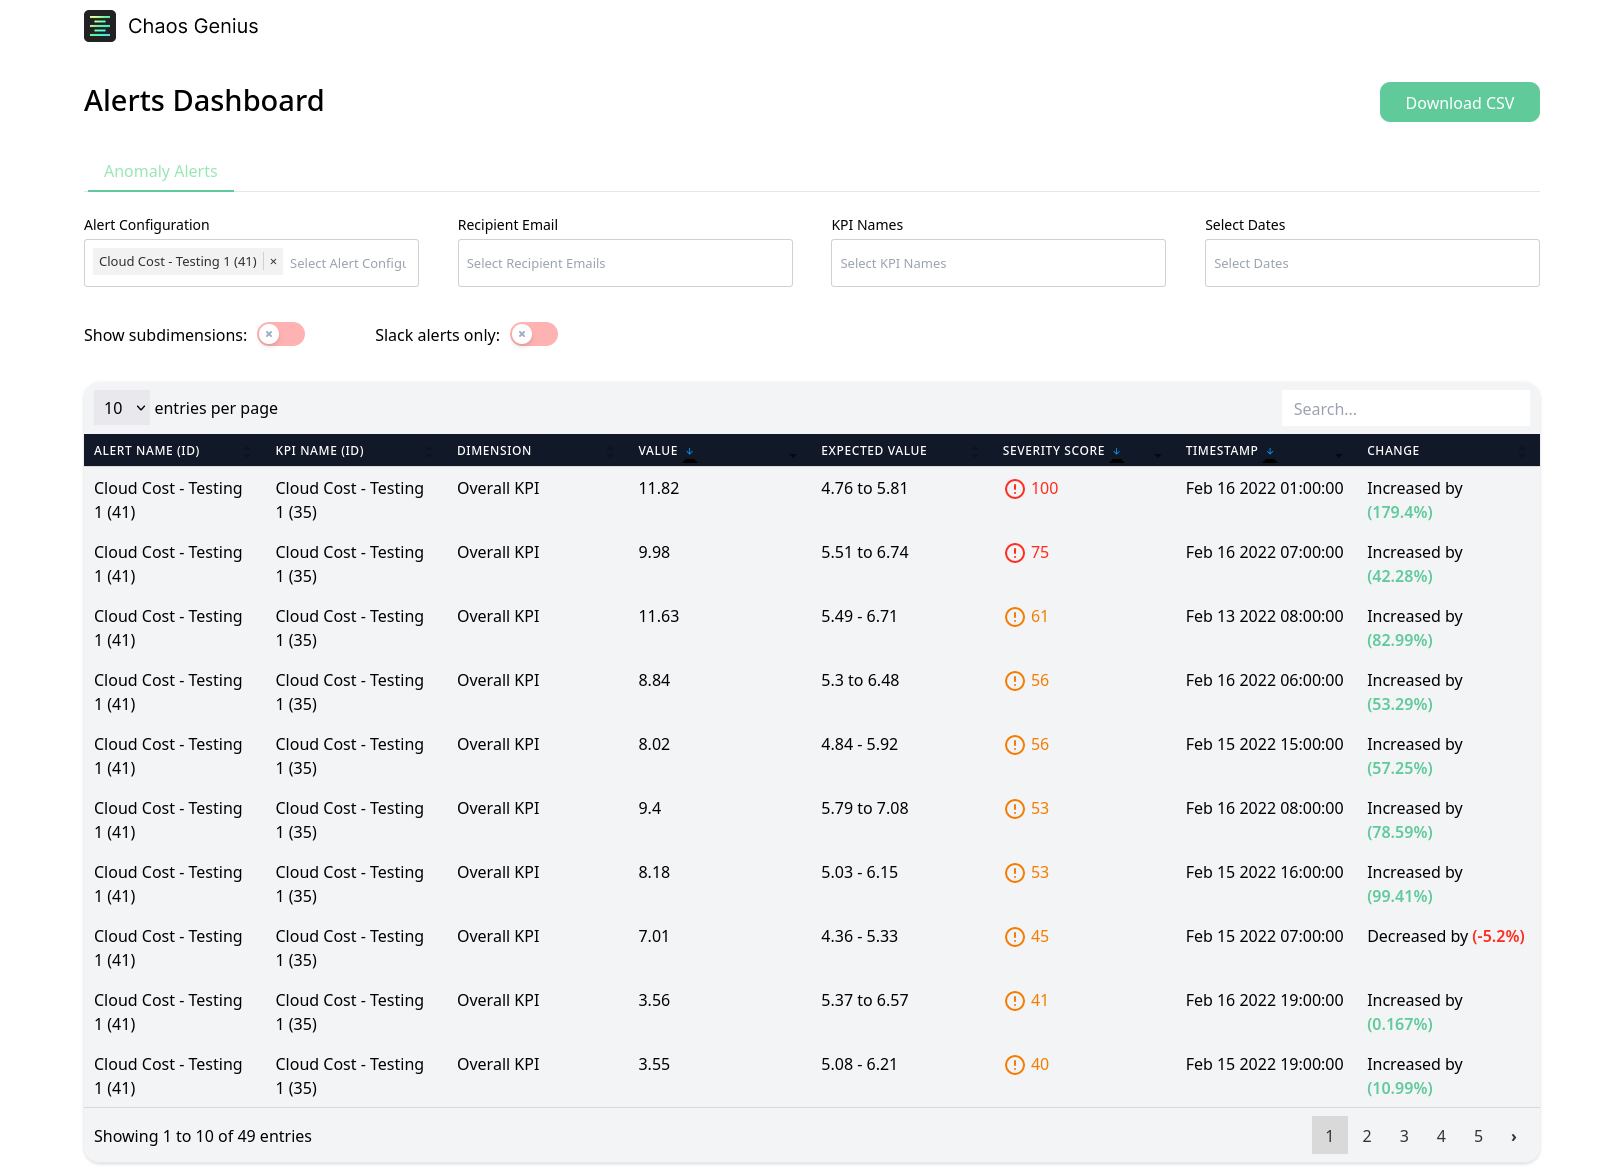
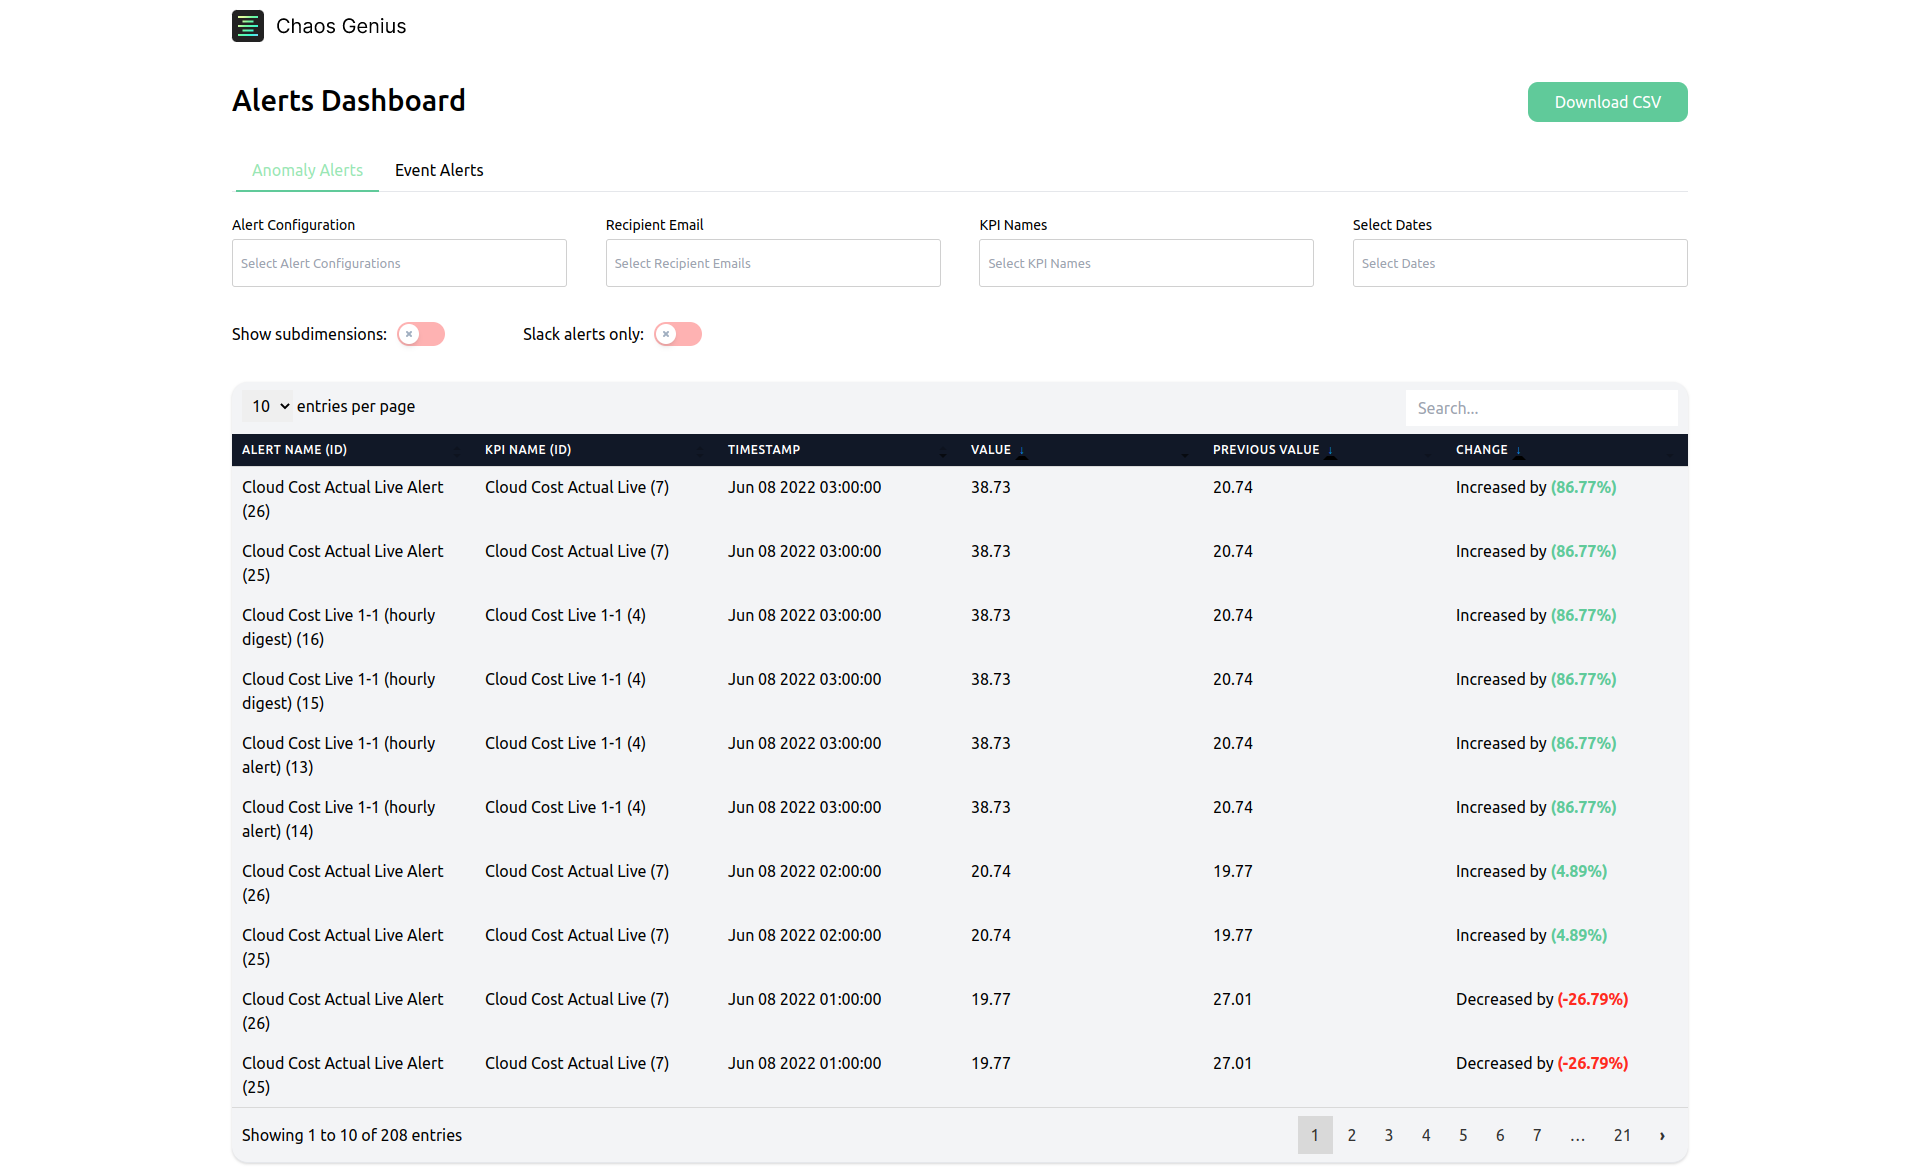
update alerts documentation

diff --git a/docs/Alerts/Alert_Report_Settings.md b/docs/Alerts/Alert_Report_Settings.md
@@ -9,6 +9,10 @@ To configure consolidated alert reports, go to Admin (on the top right corner) &
 
 ![Alerts Report config](/img/Alerts/reports_config.png)
 
-Set the time at which you want to receive alert reports. Note that the time is in your server timezone which is displayed below the input.
+Set the time at which you want to receive alert reports. 
 
-Note: each email address will receive different alerts in their report, based on the alerts to which they are added.
+:::note
+- Users are recommended to set a time such that all their KPI's have completed their analysis for the day. Selecting an earlier time will results in some alerts getting skipped from the Consolidated Report.
+- The time set is in your server timezone. Your server timezone is displayed below the input.
+- Each email address will receive different alerts in their report, based on the alerts to which they are added.
+:::

diff --git a/docs/Alerts/Alert_Console.md b/docs/Alerts/Alert_Console.md
@@ -44,9 +44,9 @@ By default, sub-dimensional level anomalies are hidden for brevity. You can enab
 
 You can sort the table by:
 - Anomaly timestamp (default)
-- Severity score
 - Value of metric
-
+- Previous value of metric
+- Change in value
 ### Data download
 
 Once you have applied all the filters and sorting you need, you can download the table as a CSV using the `Download CSV` button in the top right corner.
